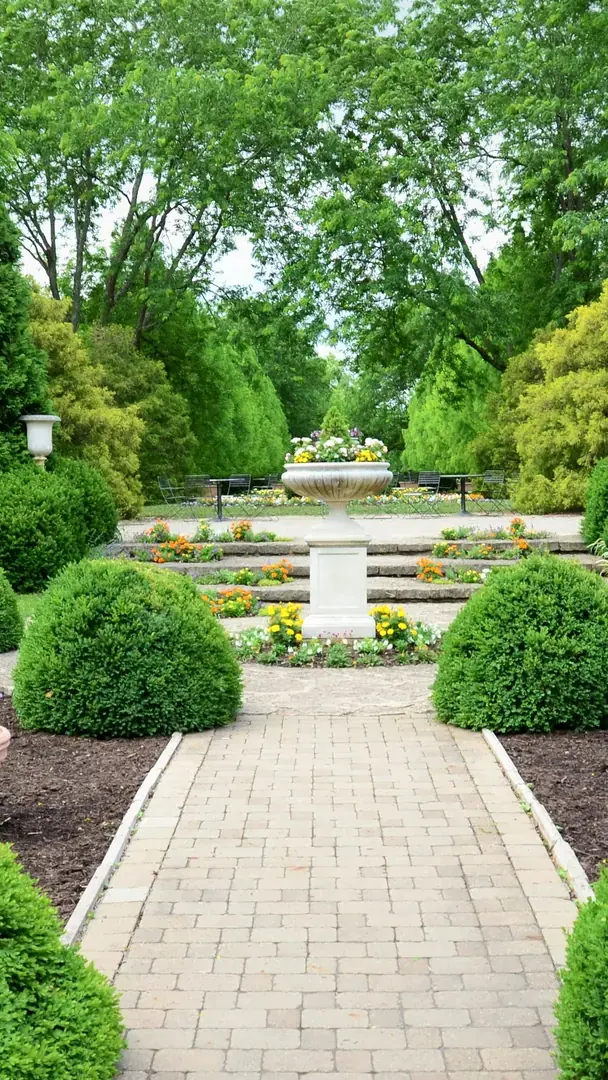
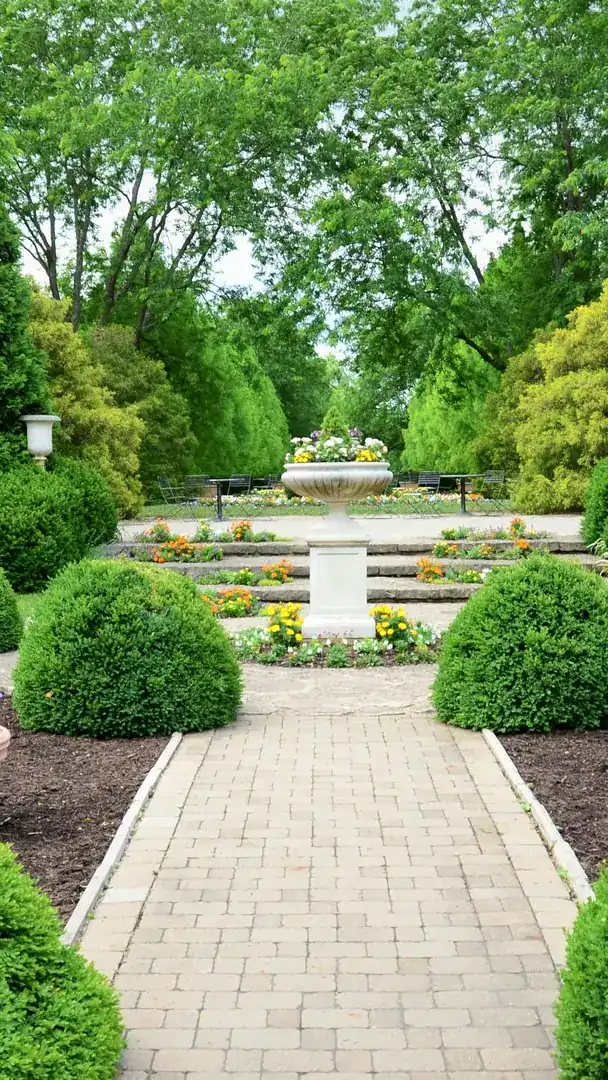
Вбудувати стилі в html і зняти зайвий пріоритет
Посилання на css блокувало перший показ, і браузер дізнавався про нього
лише розібравши html — зайвий обмін із сервером тоді, коли сторінка ще
порожня. Тепер стилі їдуть усередині. Крок стоїть до prerender, тож усі
57 сторінок успадковують їх самі.

Логотипу знято fetchPriority: високий пріоритет має сенс для того, за чим
браузер міряє показ, а це не логотип.

Герой перестиснуто з 162 до 128 KB. Він лежить під темними градієнтами,
тож різниці не видно, а на симульованому каналі Lighthouse кожен кілобайт
критичного шляху коштує близько 6 мс.

Заміряно локально через Lighthouse: 85 -> 87, LCP 4.1 -> 3.8 c.

Changed region(s): [[0.4688, 0.5806, 0.5, 0.6111]]

diff --git a/src/components/layout/Header.tsx b/src/components/layout/Header.tsx
@@ -74,7 +74,6 @@ export function Header() {
             alt="GREENLABS"
             width={251}
             height={208}
-            fetchPriority="high"
             className="h-10 md:h-14 w-auto object-contain"
           />
         </Link>
